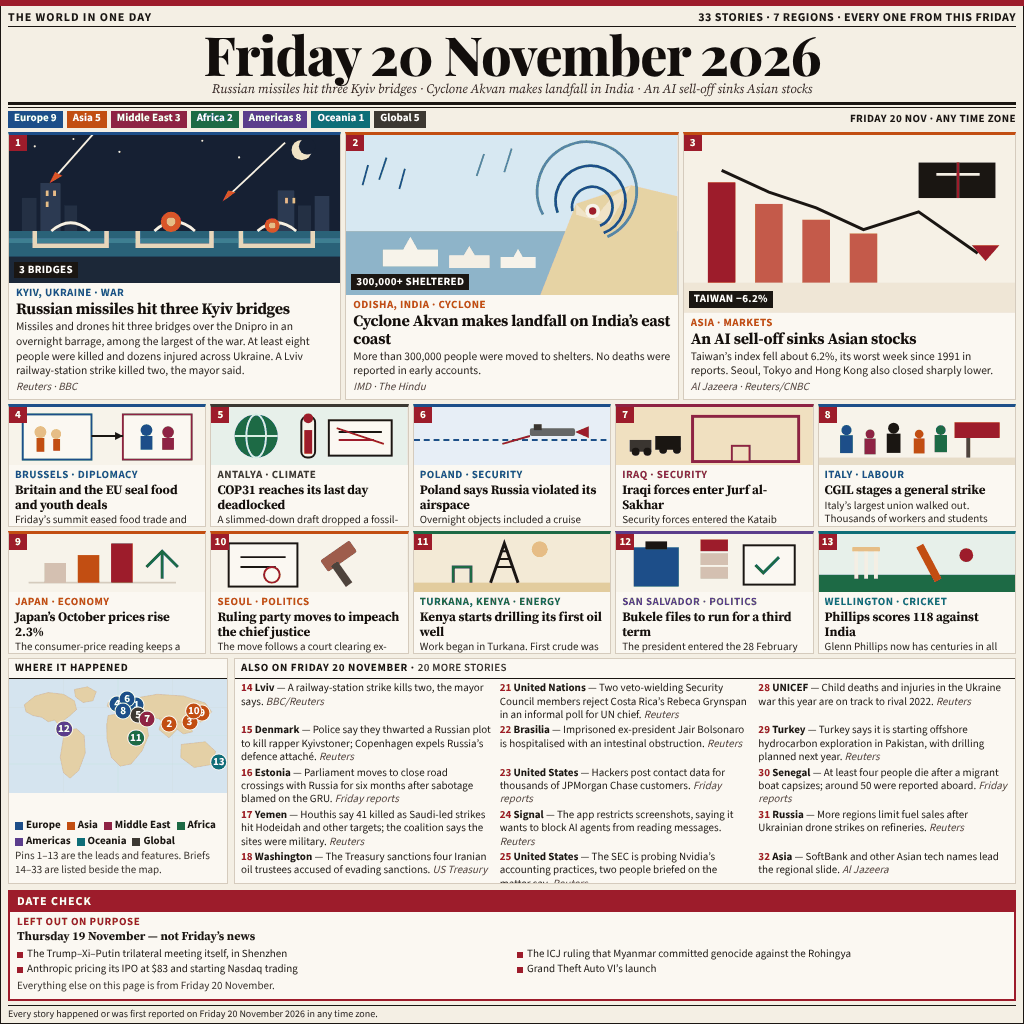
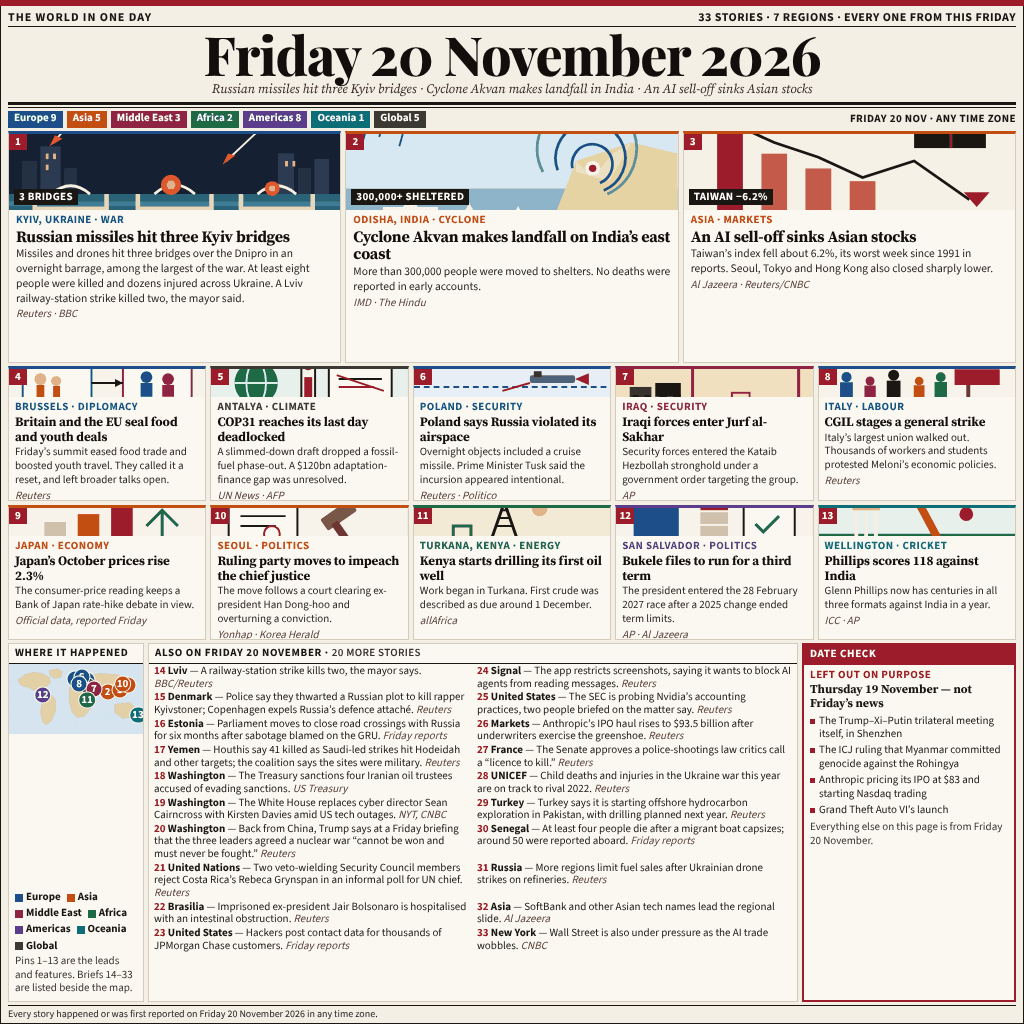
Revise typography overflow and make main.ts create the output directory

diff --git a/render/poster-a.html b/render/poster-a.html
@@ -72,12 +72,12 @@ html, body {
   flex: 1;
   min-height: 0;
   display: grid;
-  gap: 4px;
+  gap: 3px;
   padding: 5px 8px 4px;
 }
-.variant-a .wrap { grid-template-rows: auto 236px 292px minmax(0, 1fr) auto; }
-.variant-b .wrap { grid-template-rows: auto 56px 204px 268px minmax(0, 1fr) auto; }
-.variant-c .wrap { grid-template-rows: auto 268px 250px minmax(0, 1fr) auto; }
+.variant-a .wrap { grid-template-rows: auto 206px 300px minmax(0, 1fr) auto; }
+.variant-b .wrap { grid-template-rows: auto 52px 196px 274px minmax(0, 1fr) auto; }
+.variant-c .wrap { grid-template-rows: auto 232px 274px minmax(0, 1fr) auto; }
 .topbar {
   display: flex;
   justify-content: space-between;
@@ -171,11 +171,12 @@ h1 {
   flex-direction: column;
   overflow: hidden;
 }
-.art { position: relative; flex: 1 1 auto; min-height: 58px; overflow: hidden; background: #efe6d6; }
+.art { position: relative; flex: none; height: 28px; overflow: hidden; background: #efe6d6; }
+.lead .art { height: 48px; }
+.variant-c .lead .art { height: 76px; }
+.variant-b .lead .art { height: 40px; }
+.variant-b .feature .art { height: 24px; }
 .art svg { width: 100%; height: 100%; display: block; }
-.variant-c .lead .art { min-height: 120px; }
-.variant-b .lead .art { min-height: 52px; }
-.variant-b .feature .art { min-height: 32px; }
 .badge {
   position: absolute;
   z-index: 2;
@@ -213,8 +214,6 @@ h1 {
   letter-spacing: 0.04em;
   color: var(--rc);
   line-height: 1.2;
-  white-space: nowrap;
-  overflow: hidden;
 }
 .lead h2 {
   font-family: "NewsSerif", "Source Serif Pro", serif;
@@ -235,9 +234,13 @@ h1 {
 .lead p, .feature p { font-size: 11.5px; line-height: 1.28; color: #241e18; }
 .feature p { font-size: 11px; line-height: 1.25; }
 .src { font-size: 11px; line-height: 1.2; color: #5c4038; font-style: italic; margin-top: 1px; }
-.bottom { min-height: 0; display: grid; gap: 6px; }
-.variant-a .bottom, .variant-b .bottom { grid-template-columns: 252px minmax(0, 1fr) 228px; }
-.variant-c .bottom { grid-template-columns: 220px minmax(0, 1fr); grid-template-rows: minmax(0, 1fr) auto; }
+.bottom {
+  min-height: 0;
+  display: grid;
+  gap: 4px;
+  grid-template-columns: 136px minmax(0, 1fr) 214px;
+  grid-template-rows: minmax(0, 1fr);
+}
 .panel {
   min-height: 0;
   min-width: 0;
@@ -283,19 +286,15 @@ h1 {
   list-style: none;
   display: grid;
   grid-auto-flow: column;
-  gap: 2px 8px;
-  padding: 3px 6px 4px;
+  gap: 1px 8px;
+  padding: 2px 5px 2px;
   min-height: 0;
 }
-.variant-a .briefs ol, .variant-b .briefs ol {
+.briefs ol {
   grid-template-rows: repeat(10, auto);
   grid-template-columns: 1fr 1fr;
 }
-.variant-c .briefs ol {
-  grid-template-rows: repeat(7, auto);
-  grid-template-columns: 1fr 1fr 1fr;
-}
-.briefs li { font-size: 11px; line-height: 1.22; color: #1a1612; min-width: 0; }
+.briefs li { font-size: 11px; line-height: 1.15; color: #1a1612; min-width: 0; }
 .briefs .num { color: #9d1c2b; font-weight: 700; }
 .briefs .place { font-weight: 700; }
 .briefs .srcb { color: #5c4038; font-style: italic; }
@@ -308,19 +307,18 @@ h1 {
   flex-direction: column;
   overflow: hidden;
 }
-.variant-c .datecheck { grid-column: 1 / -1; }
 .dc-h {
   background: #9d1c2b;
   color: #fff;
-  font-size: 12px;
+  font-size: 11px;
   font-weight: 700;
-  letter-spacing: 0.08em;
-  padding: 3px 7px;
+  letter-spacing: 0.06em;
+  padding: 3px 6px;
   line-height: 1.2;
   flex: none;
 }
-.dc-body { padding: 4px 7px 5px; min-height: 0; }
-.dc-kicker { color: #9d1c2b; font-size: 11px; font-weight: 700; letter-spacing: 0.05em; line-height: 1.2; }
+.dc-body { padding: 4px 6px 5px; min-height: 0; }
+.dc-kicker { color: #9d1c2b; font-size: 11px; font-weight: 700; letter-spacing: 0.04em; line-height: 1.2; }
 .dc-when {
   font-family: "NewsSerif", "Source Serif Pro", serif;
   font-weight: 700;
@@ -329,11 +327,9 @@ h1 {
   margin: 1px 0 3px;
 }
 .datecheck ul { list-style: none; }
-.datecheck li { font-size: 11px; line-height: 1.25; padding-left: 10px; position: relative; margin-top: 3px; }
-.datecheck li::before { content: ""; position: absolute; left: 0; top: 4px; width: 6px; height: 6px; background: #9d1c2b; }
-.variant-c .datecheck ul { display: grid; grid-template-columns: 1fr 1fr; gap: 1px 10px; }
-.variant-c .datecheck li { margin-top: 0; }
-.dc-note { font-size: 11px; line-height: 1.25; margin-top: 4px; color: #3a342c; }
+.datecheck li { font-size: 11px; line-height: 1.22; padding-left: 9px; position: relative; margin-top: 3px; }
+.datecheck li::before { content: ""; position: absolute; left: 0; top: 4px; width: 5px; height: 5px; background: #9d1c2b; }
+.dc-note { font-size: 11px; line-height: 1.22; margin-top: 4px; color: #3a342c; }
 footer {
   font-size: 10px;
   line-height: 1.2;

diff --git a/render/poster-b.html b/render/poster-b.html
@@ -72,12 +72,12 @@ html, body {
   flex: 1;
   min-height: 0;
   display: grid;
-  gap: 4px;
+  gap: 3px;
   padding: 5px 8px 4px;
 }
-.variant-a .wrap { grid-template-rows: auto 236px 292px minmax(0, 1fr) auto; }
-.variant-b .wrap { grid-template-rows: auto 56px 204px 268px minmax(0, 1fr) auto; }
-.variant-c .wrap { grid-template-rows: auto 268px 250px minmax(0, 1fr) auto; }
+.variant-a .wrap { grid-template-rows: auto 206px 300px minmax(0, 1fr) auto; }
+.variant-b .wrap { grid-template-rows: auto 52px 196px 274px minmax(0, 1fr) auto; }
+.variant-c .wrap { grid-template-rows: auto 232px 274px minmax(0, 1fr) auto; }
 .topbar {
   display: flex;
   justify-content: space-between;
@@ -171,11 +171,12 @@ h1 {
   flex-direction: column;
   overflow: hidden;
 }
-.art { position: relative; flex: 1 1 auto; min-height: 58px; overflow: hidden; background: #efe6d6; }
+.art { position: relative; flex: none; height: 28px; overflow: hidden; background: #efe6d6; }
+.lead .art { height: 48px; }
+.variant-c .lead .art { height: 76px; }
+.variant-b .lead .art { height: 40px; }
+.variant-b .feature .art { height: 24px; }
 .art svg { width: 100%; height: 100%; display: block; }
-.variant-c .lead .art { min-height: 120px; }
-.variant-b .lead .art { min-height: 52px; }
-.variant-b .feature .art { min-height: 32px; }
 .badge {
   position: absolute;
   z-index: 2;
@@ -213,8 +214,6 @@ h1 {
   letter-spacing: 0.04em;
   color: var(--rc);
   line-height: 1.2;
-  white-space: nowrap;
-  overflow: hidden;
 }
 .lead h2 {
   font-family: "NewsSerif", "Source Serif Pro", serif;
@@ -235,9 +234,13 @@ h1 {
 .lead p, .feature p { font-size: 11.5px; line-height: 1.28; color: #241e18; }
 .feature p { font-size: 11px; line-height: 1.25; }
 .src { font-size: 11px; line-height: 1.2; color: #5c4038; font-style: italic; margin-top: 1px; }
-.bottom { min-height: 0; display: grid; gap: 6px; }
-.variant-a .bottom, .variant-b .bottom { grid-template-columns: 252px minmax(0, 1fr) 228px; }
-.variant-c .bottom { grid-template-columns: 220px minmax(0, 1fr); grid-template-rows: minmax(0, 1fr) auto; }
+.bottom {
+  min-height: 0;
+  display: grid;
+  gap: 4px;
+  grid-template-columns: 136px minmax(0, 1fr) 214px;
+  grid-template-rows: minmax(0, 1fr);
+}
 .panel {
   min-height: 0;
   min-width: 0;
@@ -283,19 +286,15 @@ h1 {
   list-style: none;
   display: grid;
   grid-auto-flow: column;
-  gap: 2px 8px;
-  padding: 3px 6px 4px;
+  gap: 1px 8px;
+  padding: 2px 5px 2px;
   min-height: 0;
 }
-.variant-a .briefs ol, .variant-b .briefs ol {
+.briefs ol {
   grid-template-rows: repeat(10, auto);
   grid-template-columns: 1fr 1fr;
 }
-.variant-c .briefs ol {
-  grid-template-rows: repeat(7, auto);
-  grid-template-columns: 1fr 1fr 1fr;
-}
-.briefs li { font-size: 11px; line-height: 1.22; color: #1a1612; min-width: 0; }
+.briefs li { font-size: 11px; line-height: 1.15; color: #1a1612; min-width: 0; }
 .briefs .num { color: #9d1c2b; font-weight: 700; }
 .briefs .place { font-weight: 700; }
 .briefs .srcb { color: #5c4038; font-style: italic; }
@@ -308,19 +307,18 @@ h1 {
   flex-direction: column;
   overflow: hidden;
 }
-.variant-c .datecheck { grid-column: 1 / -1; }
 .dc-h {
   background: #9d1c2b;
   color: #fff;
-  font-size: 12px;
+  font-size: 11px;
   font-weight: 700;
-  letter-spacing: 0.08em;
-  padding: 3px 7px;
+  letter-spacing: 0.06em;
+  padding: 3px 6px;
   line-height: 1.2;
   flex: none;
 }
-.dc-body { padding: 4px 7px 5px; min-height: 0; }
-.dc-kicker { color: #9d1c2b; font-size: 11px; font-weight: 700; letter-spacing: 0.05em; line-height: 1.2; }
+.dc-body { padding: 4px 6px 5px; min-height: 0; }
+.dc-kicker { color: #9d1c2b; font-size: 11px; font-weight: 700; letter-spacing: 0.04em; line-height: 1.2; }
 .dc-when {
   font-family: "NewsSerif", "Source Serif Pro", serif;
   font-weight: 700;
@@ -329,11 +327,9 @@ h1 {
   margin: 1px 0 3px;
 }
 .datecheck ul { list-style: none; }
-.datecheck li { font-size: 11px; line-height: 1.25; padding-left: 10px; position: relative; margin-top: 3px; }
-.datecheck li::before { content: ""; position: absolute; left: 0; top: 4px; width: 6px; height: 6px; background: #9d1c2b; }
-.variant-c .datecheck ul { display: grid; grid-template-columns: 1fr 1fr; gap: 1px 10px; }
-.variant-c .datecheck li { margin-top: 0; }
-.dc-note { font-size: 11px; line-height: 1.25; margin-top: 4px; color: #3a342c; }
+.datecheck li { font-size: 11px; line-height: 1.22; padding-left: 9px; position: relative; margin-top: 3px; }
+.datecheck li::before { content: ""; position: absolute; left: 0; top: 4px; width: 5px; height: 5px; background: #9d1c2b; }
+.dc-note { font-size: 11px; line-height: 1.22; margin-top: 4px; color: #3a342c; }
 footer {
   font-size: 10px;
   line-height: 1.2;

diff --git a/render/poster-c.html b/render/poster-c.html
@@ -72,12 +72,12 @@ html, body {
   flex: 1;
   min-height: 0;
   display: grid;
-  gap: 4px;
+  gap: 3px;
   padding: 5px 8px 4px;
 }
-.variant-a .wrap { grid-template-rows: auto 236px 292px minmax(0, 1fr) auto; }
-.variant-b .wrap { grid-template-rows: auto 56px 204px 268px minmax(0, 1fr) auto; }
-.variant-c .wrap { grid-template-rows: auto 268px 250px minmax(0, 1fr) auto; }
+.variant-a .wrap { grid-template-rows: auto 206px 300px minmax(0, 1fr) auto; }
+.variant-b .wrap { grid-template-rows: auto 52px 196px 274px minmax(0, 1fr) auto; }
+.variant-c .wrap { grid-template-rows: auto 232px 274px minmax(0, 1fr) auto; }
 .topbar {
   display: flex;
   justify-content: space-between;
@@ -171,11 +171,12 @@ h1 {
   flex-direction: column;
   overflow: hidden;
 }
-.art { position: relative; flex: 1 1 auto; min-height: 58px; overflow: hidden; background: #efe6d6; }
+.art { position: relative; flex: none; height: 28px; overflow: hidden; background: #efe6d6; }
+.lead .art { height: 48px; }
+.variant-c .lead .art { height: 76px; }
+.variant-b .lead .art { height: 40px; }
+.variant-b .feature .art { height: 24px; }
 .art svg { width: 100%; height: 100%; display: block; }
-.variant-c .lead .art { min-height: 120px; }
-.variant-b .lead .art { min-height: 52px; }
-.variant-b .feature .art { min-height: 32px; }
 .badge {
   position: absolute;
   z-index: 2;
@@ -213,8 +214,6 @@ h1 {
   letter-spacing: 0.04em;
   color: var(--rc);
   line-height: 1.2;
-  white-space: nowrap;
-  overflow: hidden;
 }
 .lead h2 {
   font-family: "NewsSerif", "Source Serif Pro", serif;
@@ -235,9 +234,13 @@ h1 {
 .lead p, .feature p { font-size: 11.5px; line-height: 1.28; color: #241e18; }
 .feature p { font-size: 11px; line-height: 1.25; }
 .src { font-size: 11px; line-height: 1.2; color: #5c4038; font-style: italic; margin-top: 1px; }
-.bottom { min-height: 0; display: grid; gap: 6px; }
-.variant-a .bottom, .variant-b .bottom { grid-template-columns: 252px minmax(0, 1fr) 228px; }
-.variant-c .bottom { grid-template-columns: 220px minmax(0, 1fr); grid-template-rows: minmax(0, 1fr) auto; }
+.bottom {
+  min-height: 0;
+  display: grid;
+  gap: 4px;
+  grid-template-columns: 136px minmax(0, 1fr) 214px;
+  grid-template-rows: minmax(0, 1fr);
+}
 .panel {
   min-height: 0;
   min-width: 0;
@@ -283,19 +286,15 @@ h1 {
   list-style: none;
   display: grid;
   grid-auto-flow: column;
-  gap: 2px 8px;
-  padding: 3px 6px 4px;
+  gap: 1px 8px;
+  padding: 2px 5px 2px;
   min-height: 0;
 }
-.variant-a .briefs ol, .variant-b .briefs ol {
+.briefs ol {
   grid-template-rows: repeat(10, auto);
   grid-template-columns: 1fr 1fr;
 }
-.variant-c .briefs ol {
-  grid-template-rows: repeat(7, auto);
-  grid-template-columns: 1fr 1fr 1fr;
-}
-.briefs li { font-size: 11px; line-height: 1.22; color: #1a1612; min-width: 0; }
+.briefs li { font-size: 11px; line-height: 1.15; color: #1a1612; min-width: 0; }
 .briefs .num { color: #9d1c2b; font-weight: 700; }
 .briefs .place { font-weight: 700; }
 .briefs .srcb { color: #5c4038; font-style: italic; }
@@ -308,19 +307,18 @@ h1 {
   flex-direction: column;
   overflow: hidden;
 }
-.variant-c .datecheck { grid-column: 1 / -1; }
 .dc-h {
   background: #9d1c2b;
   color: #fff;
-  font-size: 12px;
+  font-size: 11px;
   font-weight: 700;
-  letter-spacing: 0.08em;
-  padding: 3px 7px;
+  letter-spacing: 0.06em;
+  padding: 3px 6px;
   line-height: 1.2;
   flex: none;
 }
-.dc-body { padding: 4px 7px 5px; min-height: 0; }
-.dc-kicker { color: #9d1c2b; font-size: 11px; font-weight: 700; letter-spacing: 0.05em; line-height: 1.2; }
+.dc-body { padding: 4px 6px 5px; min-height: 0; }
+.dc-kicker { color: #9d1c2b; font-size: 11px; font-weight: 700; letter-spacing: 0.04em; line-height: 1.2; }
 .dc-when {
   font-family: "NewsSerif", "Source Serif Pro", serif;
   font-weight: 700;
@@ -329,11 +327,9 @@ h1 {
   margin: 1px 0 3px;
 }
 .datecheck ul { list-style: none; }
-.datecheck li { font-size: 11px; line-height: 1.25; padding-left: 10px; position: relative; margin-top: 3px; }
-.datecheck li::before { content: ""; position: absolute; left: 0; top: 4px; width: 6px; height: 6px; background: #9d1c2b; }
-.variant-c .datecheck ul { display: grid; grid-template-columns: 1fr 1fr; gap: 1px 10px; }
-.variant-c .datecheck li { margin-top: 0; }
-.dc-note { font-size: 11px; line-height: 1.25; margin-top: 4px; color: #3a342c; }
+.datecheck li { font-size: 11px; line-height: 1.22; padding-left: 9px; position: relative; margin-top: 3px; }
+.datecheck li::before { content: ""; position: absolute; left: 0; top: 4px; width: 5px; height: 5px; background: #9d1c2b; }
+.dc-note { font-size: 11px; line-height: 1.22; margin-top: 4px; color: #3a342c; }
 footer {
   font-size: 10px;
   line-height: 1.2;

diff --git a/main.ts b/main.ts
@@ -1,8 +1,10 @@
-import { copyFileSync } from 'node:fs';
+import { copyFileSync, mkdirSync } from 'node:fs';
 import { dirname, join } from 'node:path';
 import { fileURLToPath } from 'node:url';
 
 const here = dirname(fileURLToPath(import.meta.url));
 const src = join(here, 'entry.png');
-const dest = join(process.env.MAKEFUN_OUTPUT_DIR ?? '/output', 'entry.png');
+const destDir = process.env.MAKEFUN_OUTPUT_DIR ?? '/output';
+mkdirSync(destDir, { recursive: true });
+const dest = join(destDir, 'entry.png');
 copyFileSync(src, dest);
